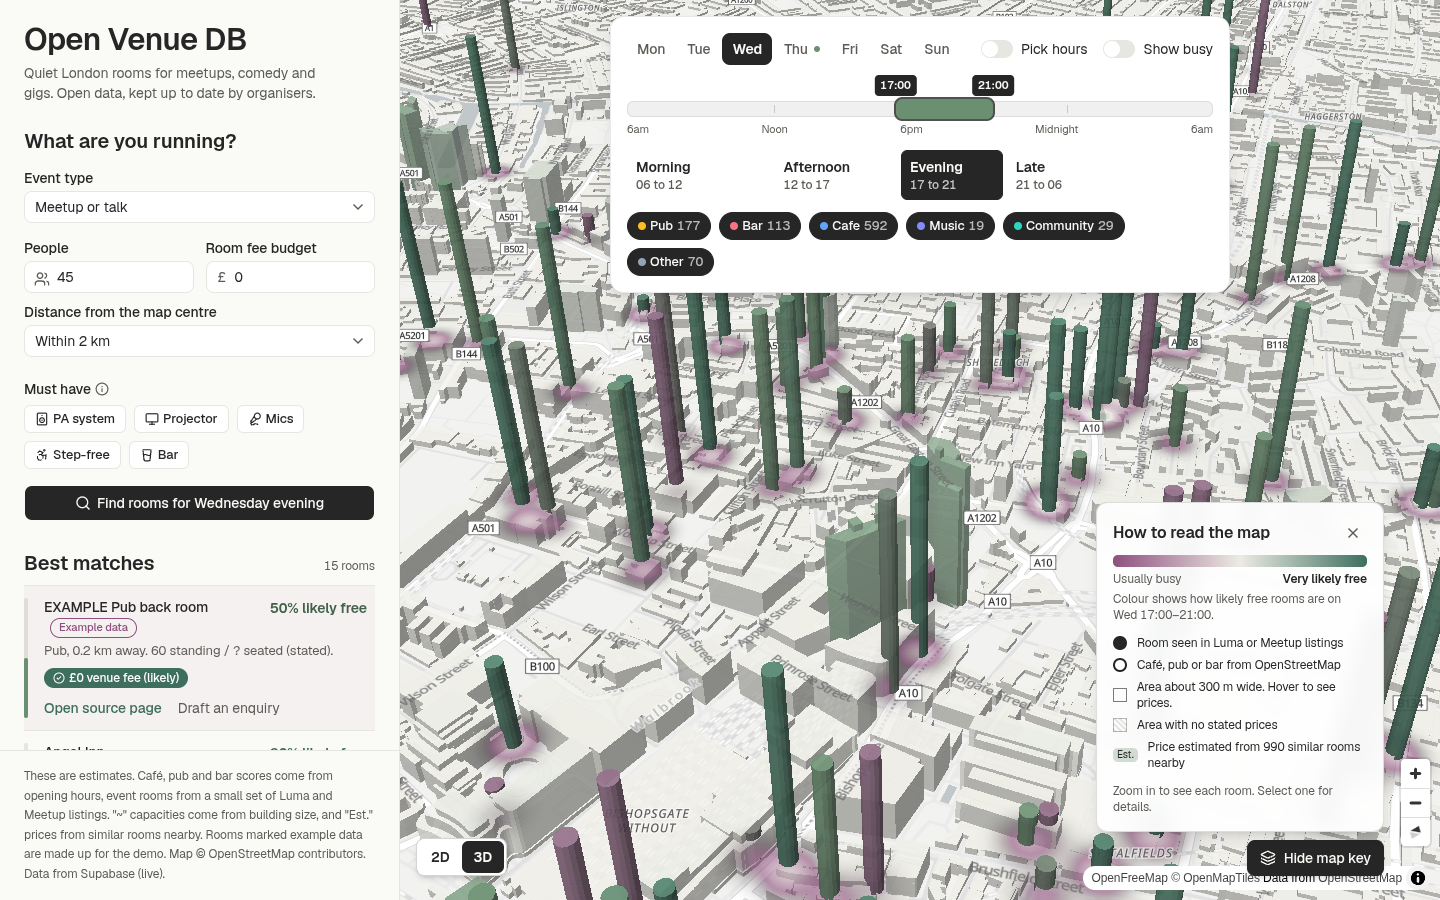
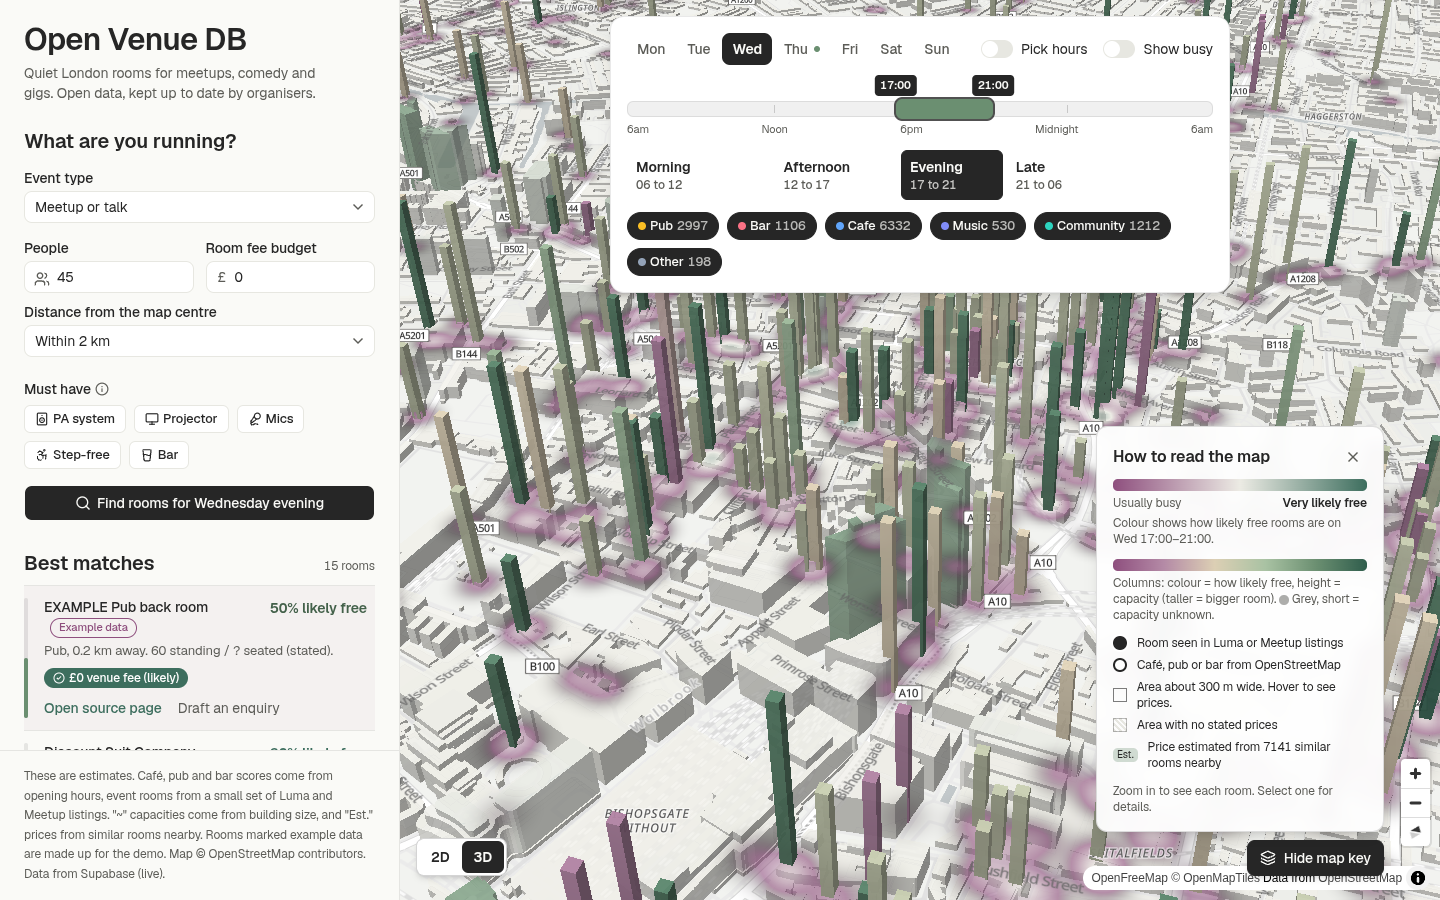
web-app 3D: square columns, 6-stop free ramp with vertical gradient, sqrt capacity heights, muted unknown-capacity columns, 3D legend

diff --git a/web-app/src/Map3D.tsx b/web-app/src/Map3D.tsx
@@ -4,21 +4,20 @@ import "maplibre-gl/dist/maplibre-gl.css"
 import type { Venue } from "./data"
 import { capText, priceEst } from "./data"
 import { P } from "./palette"
+export const RAMP = ["#8E4F7E", "#B48AA6", "#DCCFB4", "#A9C2A3", "#6B8F71", "#2F5D4C"]
 
 export type Fly = { lat: number; lng: number; t: number } | null
 const reduced = () => matchMedia("(prefers-reduced-motion: reduce)").matches
-const capNum = (v: Venue) => { const f = v.f || {}; return +(f.capacity_standing || f.capacity_seated || f.capacity_est_max_standing || f.capacity_est_max_seated || 40) }
-function circle(lng: number, lat: number, r = 9, n = 14) {
-  const pts: number[][] = []
-  for (let i = 0; i <= n; i++) { const a = (i / n) * 2 * Math.PI; pts.push([lng + (r / (111320 * Math.cos(lat * Math.PI / 180))) * Math.cos(a), lat + (r / 110540) * Math.sin(a)]) }
-  return [pts]
+const capNum = (v: Venue) => { const f = (Array.isArray(v.f) ? v.f[0] : v.f) || {}; return +(f.capacity_standing || f.capacity_seated || f.capacity_est_max_standing || f.capacity_est_max_seated || 0) }
+function square(lng: number, lat: number, r = 6) {
+  const dx = r / (111320 * Math.cos(lat * Math.PI / 180)), dy = r / 110540
+  return [[[lng - dx, lat - dy], [lng + dx, lat - dy], [lng + dx, lat + dy], [lng - dx, lat + dy], [lng - dx, lat - dy]]]
 }
-
 export default function Map3D({ venues, score, center, fly, onCenter }: { venues: Venue[]; score: (v: Venue) => number; center: [number, number]; fly: Fly; onCenter?: (c: [number, number]) => void }) {
   const el = useRef<HTMLDivElement>(null), m = useRef<maplibregl.Map | null>(null), ready = useRef(false)
   const data = () => {
     const pts = { type: "FeatureCollection", features: venues.map(v => ({ type: "Feature", properties: { s: score(v) }, geometry: { type: "Point", coordinates: [v.lng, v.lat] } })) }
-    const cols = { type: "FeatureCollection", features: venues.map(v => { const pe = priceEst(v); return { type: "Feature", properties: { id: v.id, s: score(v), h: Math.min(15 + capNum(v) * 0.7, 250), name: v.name, cap: capText(v), price: /inimum spend/.test(v.fee_label || "") ? "Minimum spend applies" : pe ? `Est. £${Math.round(pe.low)}–£${Math.round(pe.high)}${pe.unit === "gbp_per_head" ? " a head" : ""}` : (v.fee_label || "Fee unknown"), lat: v.lat, lng: v.lng }, geometry: { type: "Polygon", coordinates: circle(v.lng, v.lat) } } }) }
+    const cols = { type: "FeatureCollection", features: venues.map(v => { const pe = priceEst(v); return { type: "Feature", properties: { id: v.id, s: score(v), k: capNum(v) > 0 ? 1 : 0, h: capNum(v) > 0 ? Math.min(8 + 9 * Math.sqrt(capNum(v)), 220) : 6, name: v.name, cap: capText(v), price: /inimum spend/.test(v.fee_label || "") ? "Minimum spend applies" : pe ? `Est. £${Math.round(pe.low)}–£${Math.round(pe.high)}${pe.unit === "gbp_per_head" ? " a head" : ""}` : (v.fee_label || "Fee unknown"), lat: v.lat, lng: v.lng }, geometry: { type: "Polygon", coordinates: square(v.lng, v.lat) } } }) }
     return { pts, cols } as any
   }
   useEffect(() => {
@@ -34,14 +33,16 @@ export default function Map3D({ venues, score, center, fly, onCenter }: { venues
         paint: { "fill-extrusion-color": ["interpolate", ["linear"], ["coalesce", ["get", "render_height"], 10], 0, P.mid, 60, P.line, 150, P.accent], "fill-extrusion-height": ["coalesce", ["get", "render_height"], 10], "fill-extrusion-base": ["coalesce", ["get", "render_min_height"], 0], "fill-extrusion-opacity": 0.75 } }, lbl)
       map.addLayer({ id: "heat", type: "heatmap", source: "pts", paint: { "heatmap-weight": ["get", "s"], "heatmap-radius": ["interpolate", ["linear"], ["zoom"], 11, 12, 16, 40], "heatmap-opacity": 0.6,
         "heatmap-color": ["interpolate", ["linear"], ["heatmap-density"], 0, "rgba(0,0,0,0)", 0.15, P.busy, 0.5, P.mid, 1, P.free] } }, lbl)
-      map.addLayer({ id: "cols", type: "fill-extrusion", source: "cols", paint: { "fill-extrusion-height": ["get", "h"], "fill-extrusion-base": 0, "fill-extrusion-opacity": 0.92,
-        "fill-extrusion-color": ["interpolate", ["linear"], ["get", "s"], 0, P.busy, 0.5, P.accent, 1, P.free] } })
+      const ramp: any[] = ["interpolate", ["linear"], ["get", "s"]]; RAMP.forEach((c, i) => ramp.push(i / (RAMP.length - 1), c))
+      map.addLayer({ id: "cols0", type: "fill-extrusion", source: "cols", filter: ["==", ["get", "k"], 0], paint: { "fill-extrusion-height": ["get", "h"], "fill-extrusion-opacity": 0.45, "fill-extrusion-color": P.muted } })
+      map.addLayer({ id: "cols", type: "fill-extrusion", source: "cols", filter: ["==", ["get", "k"], 1], paint: { "fill-extrusion-height": ["get", "h"], "fill-extrusion-base": 0, "fill-extrusion-opacity": 0.95, "fill-extrusion-vertical-gradient": true, "fill-extrusion-color": ramp as any } })
       ready.current = true
       const pop = new maplibregl.Popup({ closeButton: false, closeOnClick: false, offset: 8 })
-      map.on("mousemove", "cols", e => { const p = e.features?.[0]?.properties as any; if (!p) return; map.getCanvas().style.cursor = "pointer"
+      for (const id of ["cols", "cols0"]) {
+      map.on("mousemove", id, e => { const p = e.features?.[0]?.properties as any; if (!p) return; map.getCanvas().style.cursor = "pointer"
         pop.setLngLat(e.lngLat).setHTML(`<div style="font:13px/1.35 inherit"><b>${String(p.name).replace(/</g, "&lt;")}</b><br>${p.cap}<br>${p.price}<br>Likely free: ${Math.round(p.s * 100)}%</div>`).addTo(map) })
-      map.on("mouseleave", "cols", () => { map.getCanvas().style.cursor = ""; pop.remove() })
-      map.on("click", "cols", e => { const p = e.features?.[0]?.properties as any; if (p) go(map, p.lng, p.lat, 17) })
+      map.on("mouseleave", id, () => { map.getCanvas().style.cursor = ""; pop.remove() })
+      map.on("click", id, e => { const p = e.features?.[0]?.properties as any; if (p) go(map, p.lng, p.lat, 17) }) }
       go(map, center[1], center[0], 15.2)
     })
     return () => { map.remove(); m.current = null; ready.current = false }

diff --git a/web-app/src/App.tsx b/web-app/src/App.tsx
@@ -16,6 +16,7 @@ import { HoverCard, HoverCardContent, HoverCardTrigger } from "@/components/ui/h
 import MapView from "./MapView"
 import { lazy, Suspense } from "react"
 import type { Fly } from "./Map3D"
+const RAMP = ["#8E4F7E", "#B48AA6", "#DCCFB4", "#A9C2A3", "#6B8F71", "#2F5D4C"]
 const Map3D = lazy(() => import("./Map3D"))
 import { P } from "./palette"
 import { SB, KEY, DAYS, SLOTS, TYPES, type Venue, typeOf, isEx, capText, priceEst, freeScore, dominantSlot, fmtH } from "./data"
@@ -73,7 +74,7 @@ function TimeBand({ hrs }: { hrs: [number, number] }) {
   )
 }
 
-function Legend({ busy, slotLabel, nEst }: { busy: boolean; slotLabel: string; nEst: number }) {
+function Legend({ busy, slotLabel, nEst, is3d }: { busy: boolean; slotLabel: string; nEst: number; is3d?: boolean }) {
   return (
     <div className="space-y-3 text-sm">
       
@@ -82,6 +83,10 @@ function Legend({ busy, slotLabel, nEst }: { busy: boolean; slotLabel: string; n
         <div className="flex justify-between text-xs mt-1 text-muted-foreground"><span>{busy ? "Usually free" : "Usually busy"}</span><span className="font-semibold text-ink">{busy ? "Very likely busy" : "Very likely free"}</span></div>
         <p className="text-xs text-muted-foreground mt-1">Colour shows {busy ? "how busy" : "how likely free"} rooms are on {slotLabel}.</p>
       </div>
+      {is3d && <div>
+        <div className="h-3 w-full rounded-sm" style={{ background: `linear-gradient(90deg,${(busy ? [...RAMP].reverse() : RAMP).join(",")})` }} />
+        <p className="text-xs text-muted-foreground mt-1">Columns: colour = {busy ? "how busy" : "how likely free"}, height = capacity (taller = bigger room). <span className="inline-block size-2.5 align-middle rounded-sm opacity-50" style={{ background: P.muted }} /> Grey, short = capacity unknown.</p>
+      </div>}
       <ul className="grid gap-1.5 text-xs">
         <li className="flex items-center gap-2.5"><span className="size-3.5 rounded-full bg-ink ring-2 ring-white" />Room seen in Luma or Meetup listings</li>
         <li className="flex items-center gap-2.5"><span className="size-3.5 rounded-full bg-white border-2 border-ink" />Café, pub or bar from OpenStreetMap</li>
@@ -216,7 +221,7 @@ export default function App() {
             {showKey && <div id="map-key" className="w-72 max-w-full max-h-[40vh] md:max-h-none overflow-auto bg-white/95 backdrop-blur rounded-xl border border-ink/15 shadow-lg p-4">
               <div className="flex items-center justify-between mb-2"><h3 className="font-heading text-base font-semibold">How to read the map</h3>
                 <button onClick={() => toggleKey(false)} aria-label="Hide map key" className="size-7 grid place-items-center rounded-md text-muted-foreground hover:bg-ink/10 hover:text-ink active:bg-ink/15"><X className="size-4" /></button></div>
-              <Legend busy={busy} slotLabel={slotLabel} nEst={nEst} /></div>}
+              <Legend busy={busy} slotLabel={slotLabel} nEst={nEst} is3d={is3d} /></div>}
             <button onClick={() => toggleKey(!showKey)} aria-expanded={showKey} aria-controls="map-key"
               className={`h-9 px-3 inline-flex items-center gap-2 rounded-lg border text-sm font-medium shadow-md transition-colors ${showKey ? "bg-ink text-fog border-ink hover:bg-ink/90" : "bg-white text-ink border-ink/20 hover:bg-fog"}`}>
               <Layers className="size-4" />{showKey ? "Hide map key" : "Show map key"}</button>
